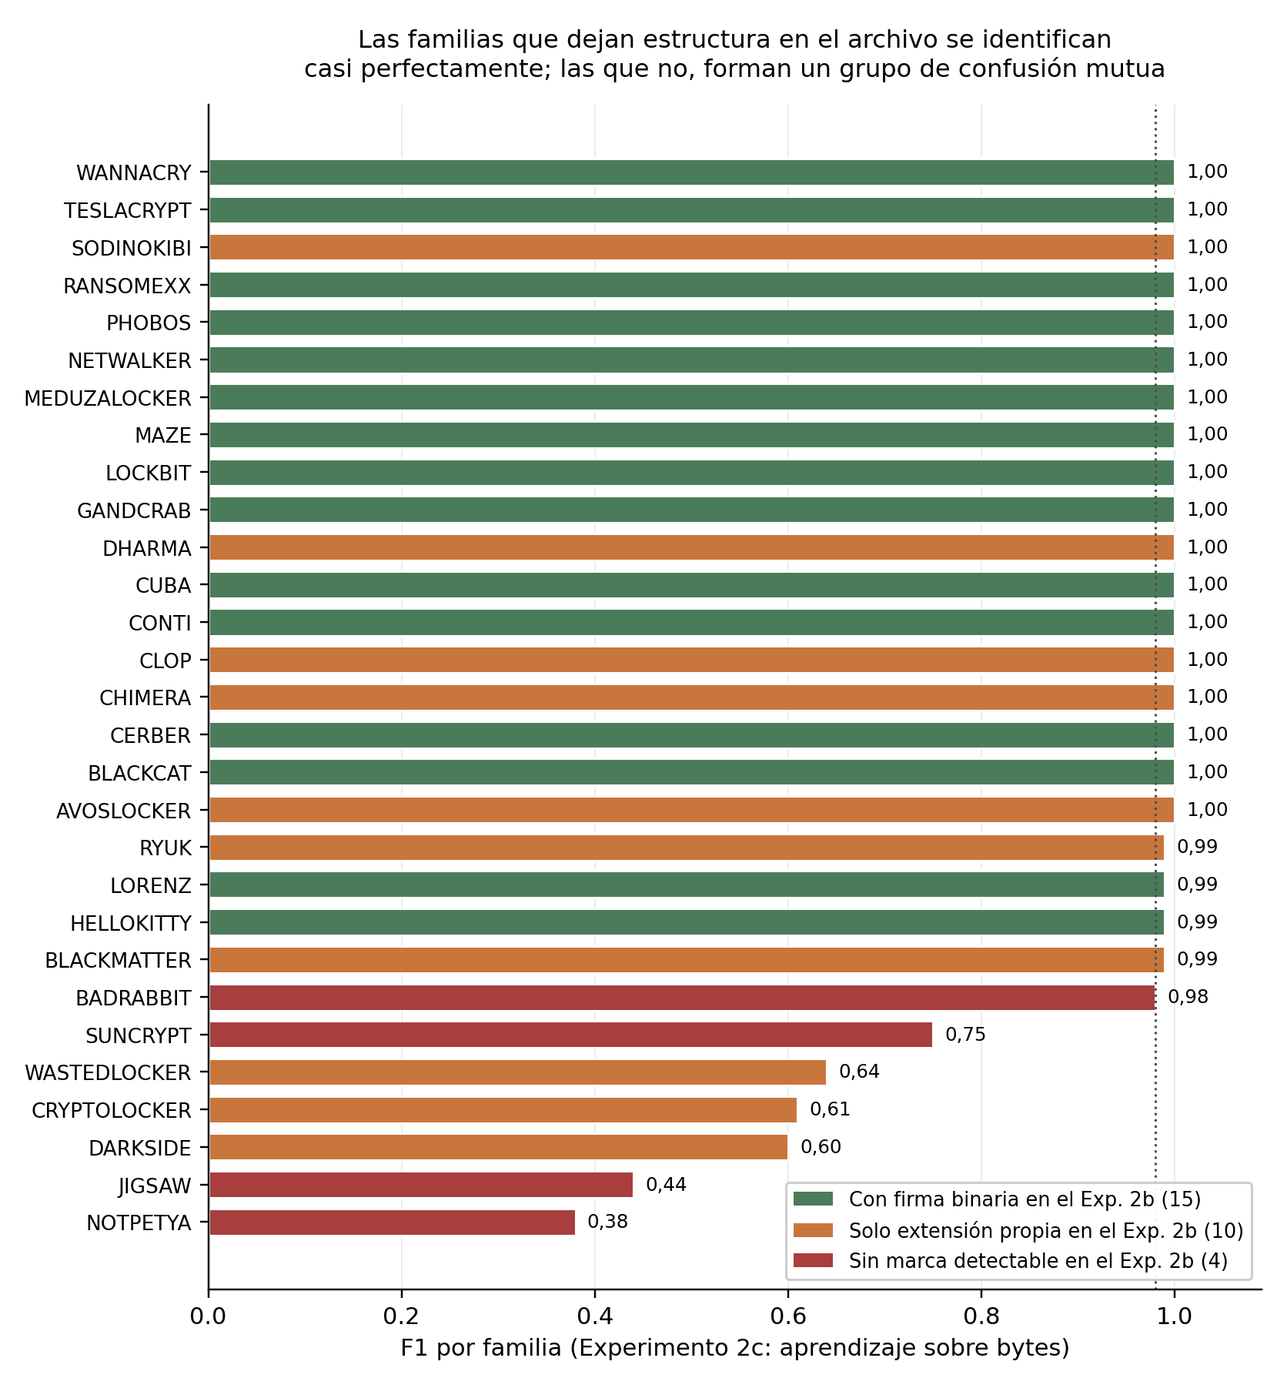
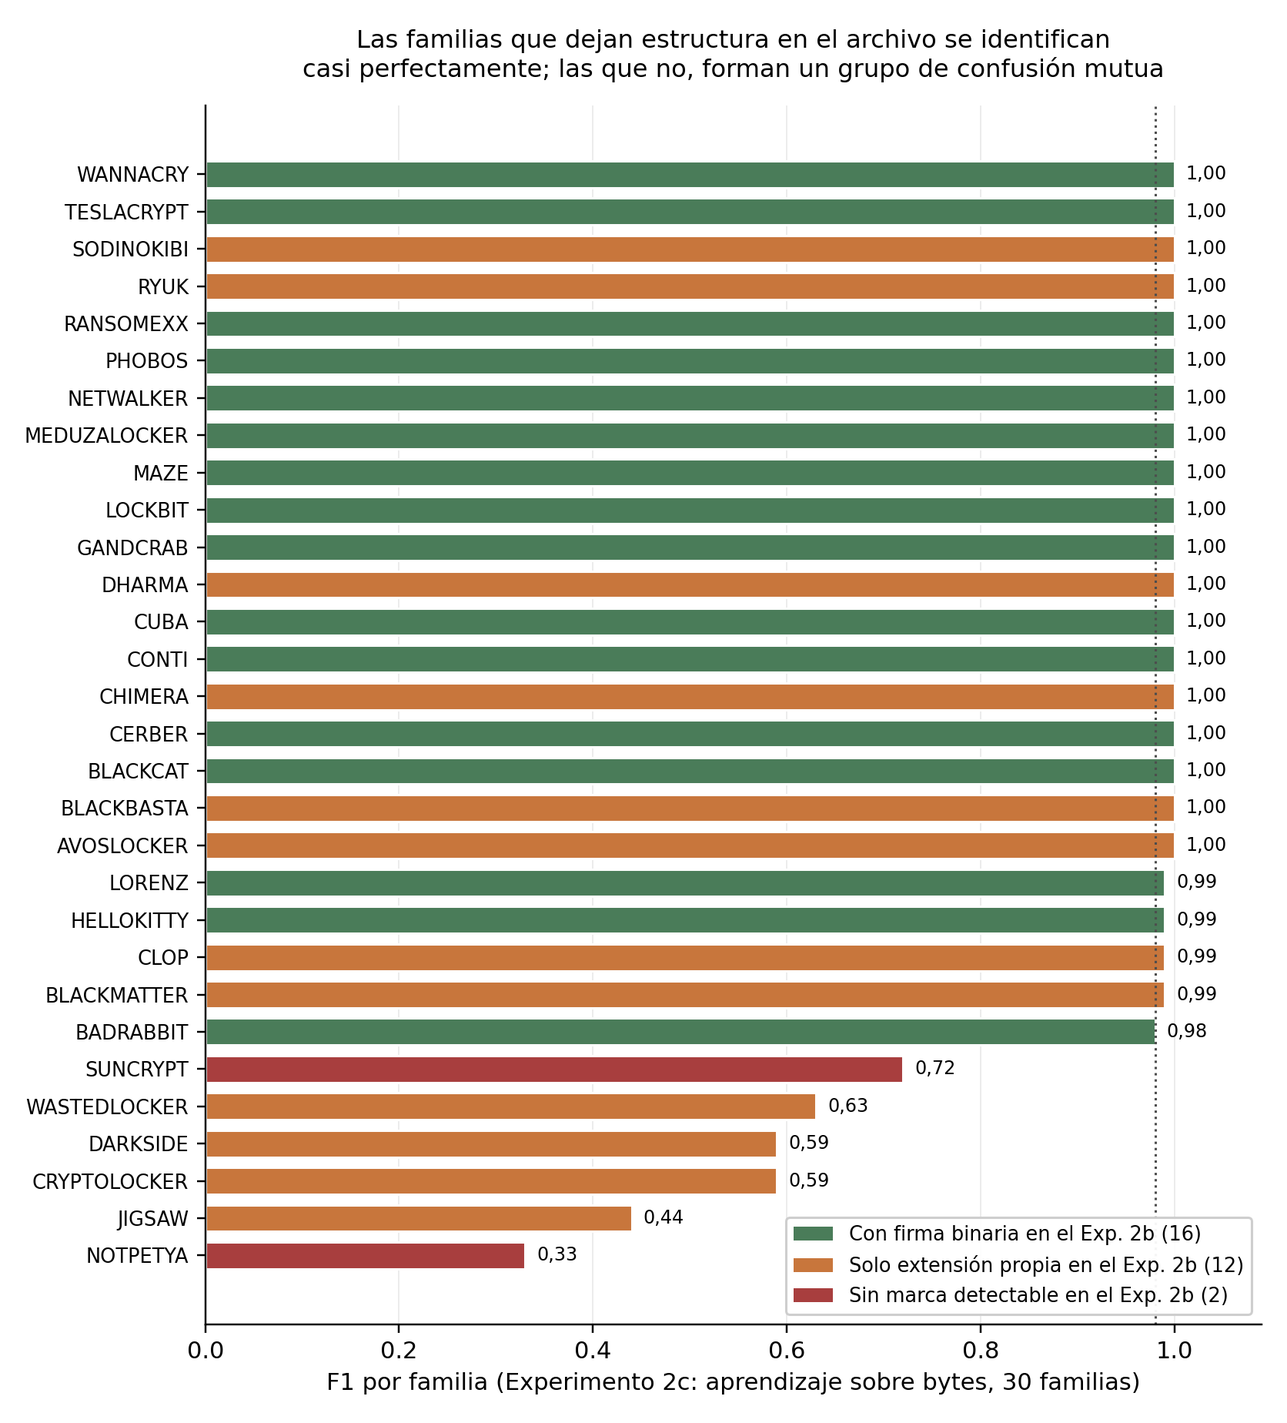
Actualizar el capítulo 4 a 30 familias con media y desvío sobre 10 semillas
Exp. 2b: 28 de 30 familias con marca (solo NOTPETYA y SUNCRYPT sin ninguna),
combinado 0,932 ± 0,001 de exactitud, firma de BADRABBIT («encrypted» en UTF-16,
96,5 % de sus archivos). Exp. 2c: exactitud 0,912 ± 0,002 y macro-F1 0,911 ±
0,001; se explica por qué fallan seis familias (cuatro solo marcan el nombre y
el clasificador no lo usa). Tabla comparativa final con bases explícitas.
Figuras regeneradas y dos nuevas (ablación extendida e importancia por posición).
Compila: 64 páginas, 0 errores.

diff --git a/1_documento/Plantilla_de_Tesis___Romina_Carlos/resultados.tex b/1_documento/Plantilla_de_Tesis___Romina_Carlos/resultados.tex
@@ -127,7 +127,7 @@ Se evaluaron cinco subconjuntos de características con tres algoritmos, mediant
 
 \begin{table}[ht]
 \centering
-\caption{Exactitud multiclase (29 familias) según el subconjunto de características. Validación cruzada de 5 particiones sobre 29.029 archivos. Azar $= 0{,}034$.}
+\caption{Exactitud multiclase (29 familias) según el subconjunto de características. Validación cruzada de 5 particiones sobre 29.029 archivos. Azar $= 0{,}034$. Este experimento se realizó antes de incorporar BLACKBASTA al conjunto, de modo que su base son 29 familias; los Experimentos 2b y 2c posteriores se miden sobre las 30.}
 \label{tab:exp2_ampliado}
 \begin{tabular}{|l|c|c|c|}
 \hline
@@ -198,34 +198,34 @@ La clasificación se evalúa mediante el procedimiento \textit{leave-one-out}: p
 
 \subsection{Marcas descubiertas}
 
-El procedimiento identificó marcas estructurales en \textbf{25 de las 29 familias}. En quince casos se trata de firmas binarias en el contenido, varias de ellas legibles como texto: WANNACRY escribe \texttt{57 41 4E 41 43 52 59 21} al inicio de cada archivo, secuencia que corresponde a la cadena \texttt{WANACRY!}; CUBA inserta \texttt{FIDEL.CA} en los primeros veinte bytes; PHOBOS añade \texttt{LOCK96} al final. Otras familias emplean firmas extensas no textuales: CERBER, LOCKBIT, RANSOMEXX y TESLACRYPT presentan bloques constantes de 64 bytes.
+El procedimiento identificó marcas estructurales en \textbf{28 de las 30 familias}. En quince casos se trata de firmas binarias en el contenido, varias de ellas legibles como texto: WANNACRY escribe \texttt{57 41 4E 41 43 52 59 21} al inicio de cada archivo, secuencia que corresponde a la cadena \texttt{WANACRY!}; CUBA inserta \texttt{FIDEL.CA} en los primeros veinte bytes; PHOBOS añade \texttt{LOCK96} al final; BADRABBIT escribe la palabra \texttt{encrypted}, codificada en UTF-16, al final de cada archivo. Otras familias emplean firmas extensas no textuales: CERBER, LOCKBIT, RANSOMEXX y TESLACRYPT presentan bloques constantes de 64 bytes.
 
 Este resultado valida de forma independiente las anotaciones manuales realizadas durante la evaluación de ID Ransomware: las nueve familias cuya identificación sobrevivía al renombrado figuran entre las que el procedimiento automático detecta con firma binaria.
 
-Cuatro familias ---BADRABBIT, JIGSAW, NOTPETYA y SUNCRYPT--- no presentan marca alguna. El caso de NOTPETYA coincide con lo documentado por Davies et al.~\cite{davies2023majority}, quienes observan que esta familia no modifica la extensión de los archivos que ataca y que, por ese motivo, evade las pruebas basadas en nombre y extensión. La convergencia entre ambos trabajos, obtenida por vías metodológicas distintas, refuerza la validez del procedimiento.
+Dos familias ---NOTPETYA y SUNCRYPT--- no presentan marca alguna. SUNCRYPT asigna a cada archivo una extensión distinta, un valor hexadecimal de 64 caracteres, de modo que no existe extensión común que registrar. El caso de NOTPETYA coincide con lo documentado por Davies et al.~\cite{davies2023majority}, quienes observan que esta familia no modifica la extensión de los archivos que ataca y que, por ese motivo, evade las pruebas basadas en nombre y extensión. La convergencia entre ambos trabajos, obtenida por vías metodológicas distintas, refuerza la validez del procedimiento.
 
 \subsection{Resultados y ablación}
 
-Un resultado agregado del 86,2\% de exactitud podría atribuirse por completo a la extensión del archivo, que es también el mecanismo que emplean las herramientas basadas en reglas. Para separar ambas contribuciones se repitió la evaluación en tres modalidades (Tabla~\ref{tab:exp2b}).
+Un resultado agregado del 93,2\% de exactitud podría atribuirse por completo a la extensión del archivo, que es también el mecanismo que emplean las herramientas basadas en reglas. Para separar ambas contribuciones se repitió la evaluación en tres modalidades (Tabla~\ref{tab:exp2b}).
 
 \begin{table}[ht]
 \centering
-\caption{Ablación del Experimento 2b: contribución de cada tipo de marca (1.450 archivos, 29 familias, \textit{leave-one-out})}
+\caption{Ablación del Experimento 2b: contribución de cada tipo de marca (1.500 archivos, 30 familias, \textit{leave-one-out}; media $\pm$ desvío sobre diez semillas de muestreo, con el criterio de detección declarado en 0,90)}
 \label{tab:exp2b}
 \begin{tabular}{|l|c|c|c|}
 \hline
 \textbf{Modalidad} & \textbf{Cobertura} & \textbf{Exactitud global} & \textbf{Exactitud donde aplica} \\
 \hline
-Solo extensión del archivo & 82,8\% & 0,828 & 1,000 \\
-Solo firmas binarias & 53,3\% & 0,517 & 0,970 \\
-Combinado & 87,8\% & 0,862 & 0,982 \\
+Solo extensión del archivo & 86,7\% & 0,867 $\pm$ 0,000 & 1,000 $\pm$ 0,000 \\
+Solo firmas binarias & 57,2\% & 0,563 $\pm$ 0,002 & 0,984 $\pm$ 0,003 \\
+Combinado & 94,1\% & 0,932 $\pm$ 0,001 & 0,991 $\pm$ 0,002 \\
 \hline
 \end{tabular}
 \end{table}
 
 La interpretación de estas cifras exige cautela. La extensión acierta el 100\% de los casos en que está presente, pero ese valor perfecto es un indicio de artefacto y no de mérito: en NapierOne cada familia está representada por una única campaña, de modo que su extensión es constante dentro del conjunto de datos. En la práctica, familias como DHARMA emplean extensiones que incorporan un identificador de la víctima, por lo que la extensión constituye un identificador de \textit{campaña} y no de \textit{familia}. Su rendimiento no es extrapolable.
 
-Las firmas binarias, en cambio, constituyen evidencia de contenido: son marcadores que el propio programa escribe en el archivo para reconocer posteriormente lo que ya ha cifrado, y por lo tanto resultan más estables entre campañas que la extensión. Alcanzan un 97,0\% de acierto, pero solo cubren el 53,3\% de los archivos: la regla de coincidencia exacta exige que la firma sea idéntica en \textit{todos} los archivos de la familia, y un único caso divergente la elimina. Esta limitación de cobertura es la que motiva el experimento siguiente.
+Las firmas binarias, en cambio, constituyen evidencia de contenido: son marcadores que el propio programa escribe en el archivo para reconocer posteriormente lo que ya ha cifrado, y por lo tanto resultan más estables entre campañas que la extensión. Alcanzan un 98,4\% de acierto, pero solo cubren el 57,2\% de los archivos: la regla exige que la firma se repita en al menos el 90\% de los archivos de la familia, de modo que las familias cuyo marcador varía entre archivos quedan fuera. Esta limitación de cobertura es la que motiva el experimento siguiente.
 
 \section{Experimento 2c: Aprendizaje Automático sobre la Estructura de Bytes}
 \label{sec:exp2c}
@@ -259,12 +259,12 @@ Posicional + Random Forest (búsqueda) & 5.800 & 0,897 & 0,897 \\
 N-gramas de bytes + Regresión Logística & 5.800 & 0,856 & 0,858 \\
 N-gramas de bytes + LinearSVC & 5.800 & 0,849 & 0,846 \\
 \hline
-\textbf{Posicional + Random Forest (final)} & \textbf{14.500} & \textbf{0,910} & \textbf{0,908} \\
+\textbf{Posicional + Random Forest (final)} & \textbf{15.000} & \textbf{0,912 $\pm$ 0,002} & \textbf{0,911 $\pm$ 0,001} \\
 \hline
 \end{tabular}
 \end{table}
 
-La mejor configuración alcanza una \textbf{exactitud de 0,910 y un macro-F1 de 0,908 sobre 29 familias, con cobertura total y utilizando exclusivamente el contenido del archivo}. Los hiperparámetros seleccionados fueron 300 árboles, profundidad máxima 20, mínimo de 2 muestras por hoja y 30\% de características por división.
+La mejor configuración alcanza una \textbf{exactitud de 0,912 $\pm$ 0,002 y un macro-F1 de 0,911 $\pm$ 0,001 sobre 30 familias, con cobertura total y utilizando exclusivamente el contenido del archivo} (media y desvío sobre diez semillas de muestreo). Los hiperparámetros seleccionados fueron 300 árboles, profundidad máxima 20, mínimo de 2 muestras por hoja y 30\% de características por división.
 
 Resulta significativo que la representación posicional supere a los n-gramas de bytes: las marcas se encuentran en \textbf{desplazamientos fijos} del archivo, coherente con cabeceras y colas escritas por el programa en posiciones determinísticas. Este comportamiento contrasta con el observado en las notas de rescate, donde los n-gramas de caracteres resultan la mejor representación; la diferencia refleja la naturaleza distinta de ambos artefactos, uno generado por código y el otro redactado por personas.
 
@@ -279,20 +279,20 @@ La Figura~\ref{fig:f1_bytes} presenta el F1 obtenido por cada familia, distingui
 \label{fig:f1_bytes}
 \end{figure}
 
-El resultado es marcadamente bimodal: \textbf{23 de las 29 familias alcanzan un F1 igual o superior a 0,98}, mientras que seis quedan por debajo de 0,76. La correspondencia con el Experimento 2b es notable y opera como validación cruzada entre ambos:
+El resultado es marcadamente bimodal: \textbf{23 de las 30 familias alcanzan un F1 igual o superior a 0,98}, mientras que seis quedan por debajo de 0,75. La correspondencia con el Experimento 2b es notable y opera como validación cruzada entre ambos:
 
 \begin{itemize}
 \item Las \textbf{quince familias con firma binaria} identificada en el Experimento 2b obtienen, sin una sola excepción, un F1 igual o superior a 0,99.
-\item De las \textbf{diez familias que solo poseían extensión propia} ---es decir, sin marca detectable en el contenido mediante coincidencia exacta---, siete alcanzan igualmente valores superiores a 0,99. El clasificador extrae de los bytes información que la regla exacta no capturaba.
-\item De las \textbf{cuatro familias sin marca alguna}, BADRABBIT pasa de un F1 de 0,15 en el experimento estadístico a \textbf{0,98}, quedando plenamente resuelta. SUNCRYPT (0,75), NOTPETYA (0,38) y JIGSAW (0,44) mejoran respecto de los experimentos previos pero permanecen entre las difíciles.
+\item De las \textbf{once familias que solo poseían extensión propia} ---es decir, sin marca detectable en el contenido mediante coincidencia exacta---, siete alcanzan igualmente valores superiores a 0,98. El clasificador extrae de los bytes información que la regla exacta no capturaba. Las cuatro restantes ---JIGSAW, DARKSIDE, CRYPTOLOCKER y WASTEDLOCKER--- son precisamente las que el Experimento 2c no resuelve: al no emplear el nombre del archivo, el clasificador se queda sin la única marca que esas familias dejan.
+\item De las \textbf{dos familias sin marca alguna}, ninguna supera el umbral: SUNCRYPT alcanza 0,745 $\pm$ 0,016 y NOTPETYA 0,394 $\pm$ 0,023. BADRABBIT, en cambio, pasa de un F1 de 0,15 en el experimento estadístico a \textbf{0,978 $\pm$ 0,002}, quedando prácticamente resuelta.
 \end{itemize}
 
-Las seis familias con menor rendimiento ---SUNCRYPT (0,75), WASTEDLOCKER (0,64), CRYPTOLOCKER (0,61), DARKSIDE (0,60), JIGSAW (0,44) y NOTPETYA (0,38)--- forman un grupo de confusión mutua. DARKSIDE presenta un patrón revelador: precisión de 0,45 frente a un recall de 0,90, lo que indica que actúa como clase de destino por defecto para los archivos que el modelo no logra atribuir. Estas seis familias son, presumiblemente, las que cifran sin añadir estructura al archivo, y constituyen el residuo genuino de la indistinguibilidad estadística planteada en el Experimento 2.
+Las seis familias con menor rendimiento ---SUNCRYPT (0,745 $\pm$ 0,016), WASTEDLOCKER (0,628 $\pm$ 0,013), CRYPTOLOCKER (0,605 $\pm$ 0,016), DARKSIDE (0,603 $\pm$ 0,011), JIGSAW (0,439 $\pm$ 0,014) y NOTPETYA (0,394 $\pm$ 0,023)--- forman un grupo de confusión mutua. DARKSIDE presenta un patrón revelador: precisión de 0,45 frente a un recall de 0,90, lo que indica que actúa como clase de destino por defecto para los archivos que el modelo no logra atribuir. Estas seis familias son, presumiblemente, las que cifran sin añadir estructura al archivo, y constituyen el residuo genuino de la indistinguibilidad estadística planteada en el Experimento 2.
 
 \subsection{Limitación}
 \label{subsec:exp2c_limitacion}
 
-El conjunto NapierOne representa cada familia mediante una única campaña, obtenida ejecutando una muestra concreta del ransomware. En consecuencia, el valor de 0,910 mide la capacidad de identificar \textit{esa campaña}, y no puede afirmarse que se extienda a campañas futuras de la misma familia, que podrían modificar sus cabeceras o colas. Esta limitación es análoga a la observada en el corpus de notas de rescate, donde la baja variabilidad de plantillas produce el mismo efecto (Sección~\ref{subsec:res_variabilidad}), y su evaluación requeriría un conjunto de datos con múltiples campañas por familia, no disponible en la actualidad.
+El conjunto NapierOne representa cada familia mediante una única campaña, obtenida ejecutando una muestra concreta del ransomware. En consecuencia, el valor de 0,912 mide la capacidad de identificar \textit{esa campaña}, y no puede afirmarse que se extienda a campañas futuras de la misma familia, que podrían modificar sus cabeceras o colas. Esta limitación es análoga a la observada en el corpus de notas de rescate, donde la baja variabilidad de plantillas produce el mismo efecto (Sección~\ref{subsec:res_variabilidad}), y su evaluación requeriría un conjunto de datos con múltiples campañas por familia, no disponible en la actualidad.
 
 \section{Síntesis del Frente de Archivos Cifrados}
 \label{sec:sintesis_archivos}
@@ -308,7 +308,7 @@ La Figura~\ref{fig:progresion} resume la progresión de los cuatro enfoques eval
 
 Cada etapa responde a una objeción de la anterior: la ampliación del espacio de características descarta que el resultado negativo inicial se debiera a una representación pobre; la localización explícita de firmas identifica dónde reside la señal; y el aprendizaje sobre bytes extiende esa señal a la totalidad del conjunto sin recurrir a metadatos del nombre.
 
-La conclusión del frente de archivos cifrados queda, por tanto, acotada con precisión: la indistinguibilidad estadística es real, pero se limita a \textbf{seis de las veintinueve familias evaluadas}, aquellas que cifran sin dejar estructura reconocible. Para las veintitrés restantes la información de familia está presente en el contenido del archivo y es extraíble automáticamente con una exactitud del 0,910.
+La conclusión del frente de archivos cifrados queda, por tanto, acotada con precisión: la indistinguibilidad estadística es real, pero se limita a \textbf{seis de las treinta familias evaluadas}: dos que no dejan marca alguna y cuatro que solo marcan el nombre del archivo, sin añadir estructura reconocible a su contenido. Para las veinticuatro restantes la información de familia está presente en el contenido del archivo y es extraíble automáticamente con una exactitud de 0,912 $\pm$ 0,002.
 
 \section{Experimento 3: Clasificación por Notas de Rescate (NLP)}
 \label{sec:exp3}
@@ -558,14 +558,14 @@ La Tabla~\ref{tab:comparacion_final} integra los resultados de los tres experime
 Exp. 1: Binaria (archivos) & 2 & 88,6\% acc. & Random Forest \\
 Exp. 2: Multiclase, 2 características & 31 & 9,9\% acc. & Gradient Boosting \\
 Exp. 2: Multiclase, 19 características & 29 & 60,3\% acc. & Random Forest \\
-Exp. 2b: Firmas binarias (donde aplican) & 29 & 97,0\% acc. (53\% cobert.) & Coincidencia exacta \\
-Exp. 2c: Aprendizaje sobre bytes & 29 & \textbf{91,0\% acc. / 0,908 macro-F1} & Random Forest (posicional) \\
+Exp. 2b: Firmas binarias (donde aplican) & 30 & 98,4\% acc. (57\% cobert.) & Coincidencia exacta \\
+Exp. 2c: Aprendizaje sobre bytes & 30 & \textbf{91,2\% acc. / 0,911 macro-F1} & Random Forest (posicional) \\
 Exp. 3: NLP notas, P1 (plantilla conocida) & 30 & 81,8\% acc. / 0,760 macro-F1 & LinearSVC (caracteres) \\
 Exp. 3: NLP notas, P2 (variante nueva) & 30 & 55,1\% acc. / 0,435 macro-F1 & LinearSVC (combinado) \\
 \hline
-ID Ransomware (notas) & --- & 71,93\% & Reglas manuales \\
-ID Ransomware (archivos) & --- & 66,67\% & Reglas y \textit{magic bytes} \\
-CryptoSheriff (archivos) & --- & 16,67\% & Reglas manuales \\
+ID Ransomware (notas) & 22 & 71,93\% (41/57 notas) & Reglas manuales \\
+ID Ransomware (archivos) & 30 & 66,67\% (30,0\% al renombrar) & Reglas y \textit{magic bytes} \\
+CryptoSheriff (archivos) & 30 & 16,67\% & Reglas manuales \\
 \hline
 \end{tabular}
 }
@@ -575,7 +575,7 @@ Los resultados demuestran que:
 
 \begin{enumerate}
     \item Las métricas estadísticas de archivos cifrados son efectivas para la \textbf{detección binaria} de cifrado ($\sim$89\% de exactitud).
-    \item La \textbf{identificación de familia a partir de archivos cifrados es posible} (91,0\% de exactitud sobre 29 familias, sin emplear metadatos del nombre), pero no mediante las propiedades criptográficas del contenido, sino a través de los artefactos estructurales que cada familia añade. La indistinguibilidad se limita a seis familias que cifran sin dejar estructura reconocible.
+    \item La \textbf{identificación de familia a partir de archivos cifrados es posible} (91,2\% $\pm$ 0,2 de exactitud sobre 30 familias, sin emplear metadatos del nombre), pero no mediante las propiedades criptográficas del contenido, sino a través de los artefactos estructurales que cada familia añade. La indistinguibilidad se limita a seis familias que cifran sin dejar estructura reconocible.
     \item Las notas de rescate permiten la identificación de familia con 81,8\% de exactitud en el escenario operativo comparable al de las herramientas existentes (P1), superando el 71,93\% de ID Ransomware, con la ventaja adicional de constituir un método automático y reproducible frente a reglas mantenidas manualmente.
     \item La generalización a variantes nunca vistas (P2, macro-F1 0,435) es sustancialmente más difícil y depende de la diversidad de plantillas disponible por familia, lo que fundamenta la expansión del corpus como línea de trabajo prioritaria.
 \end{enumerate}
@@ -593,7 +593,7 @@ Los dos frentes del trabajo, desarrollados de forma independiente y sobre datos 
 \label{fig:simetria}
 \end{figure}
 
-En las \textbf{notas de rescate}, la señal fácil es la plantilla: reconocer una nueva instancia de un texto ya catalogado alcanza un macro-F1 de 0,760, mientras que atribuir una variante nunca vista desciende a 0,435. En los \textbf{archivos cifrados}, la señal fácil es la extensión añadida, que acierta el 100\% de los casos en que está presente pero identifica la campaña y no la familia; la señal de contenido, en cambio, alcanza 0,910 y resulta más estable porque proviene de marcadores que el propio programa escribe en el archivo.
+En las \textbf{notas de rescate}, la señal fácil es la plantilla: reconocer una nueva instancia de un texto ya catalogado alcanza un macro-F1 de 0,760, mientras que atribuir una variante nunca vista desciende a 0,435. En los \textbf{archivos cifrados}, la señal fácil es la extensión añadida, que acierta el 100\% de los casos en que está presente pero identifica la campaña y no la familia; la señal de contenido, en cambio, alcanza 0,912 y resulta más estable porque proviene de marcadores que el propio programa escribe en el archivo.
 
 Esta distinción explica por qué las herramientas basadas en catálogos de reglas, como ID Ransomware~\cite{idransomware} o el identificador propuesto por Lemmou et al.~\cite{paper_5_note_files}, funcionan satisfactoriamente sobre campañas conocidas y requieren actualización permanente: operan sobre la señal fácil. Un clasificador entrenado sobre el contenido no las reemplaza, pero cubre el caso que ellas no resuelven, que es precisamente el de las variantes no catalogadas.
 
@@ -603,13 +603,13 @@ Los resultados permiten proponer un procedimiento por etapas en el que cada arte
 
 \begin{enumerate}
 \item \textbf{Confirmación del incidente} mediante métricas estadísticas sobre los archivos afectados (detección binaria, $\sim$89\% de exactitud). Los archivos cifrados son el único artefacto cuya presencia está garantizada: la nota puede haber sido eliminada, no encontrada, o directamente no existir.
-\item \textbf{Identificación de familia por el contenido del archivo cifrado} (91,0\%), aplicable a las 23 familias que añaden estructura reconocible.
+\item \textbf{Identificación de familia por el contenido del archivo cifrado} (91,2\%), aplicable a las veinticuatro familias en cuyo contenido persiste información de familia.
 \item \textbf{Identificación de familia por la nota de rescate} cuando esté disponible (81,8\% en el escenario comparable con las herramientas existentes), especialmente valiosa para las seis familias que no dejan estructura en los archivos.
 \end{enumerate}
 
 \subsection{Sobre la naturaleza de los resultados negativos}
 
-El planteamiento inicial de este trabajo sostenía que las propiedades estadísticas de los archivos cifrados no permiten distinguir familias. La ampliación del espacio de características mostró que esa formulación era demasiado amplia: lo indistinguible es la aleatoriedad del contenido cifrado, no el archivo en su conjunto. Conviene señalar que el resultado negativo original no era erróneo sino insuficientemente delimitado, y que su delimitación precisa ---seis familias de veintinueve--- resulta más informativa que la afirmación general de la que se partió.
+El planteamiento inicial de este trabajo sostenía que las propiedades estadísticas de los archivos cifrados no permiten distinguir familias. La ampliación del espacio de características mostró que esa formulación era demasiado amplia: lo indistinguible es la aleatoriedad del contenido cifrado, no el archivo en su conjunto. Conviene señalar que el resultado negativo original no era erróneo sino insuficientemente delimitado, y que su delimitación precisa ---seis familias de treinta--- resulta más informativa que la afirmación general de la que se partió.
 
 Un caso análogo se presenta en el análisis de hiperparámetros de la Sección~\ref{subsec:exp3_hiperparametros}: la ausencia de mejora tras una búsqueda sistemática es en sí misma un resultado, porque desplaza la explicación del rendimiento desde la parametrización del modelo hacia la composición del corpus, que es donde efectivamente se encuentra el factor limitante.
 
